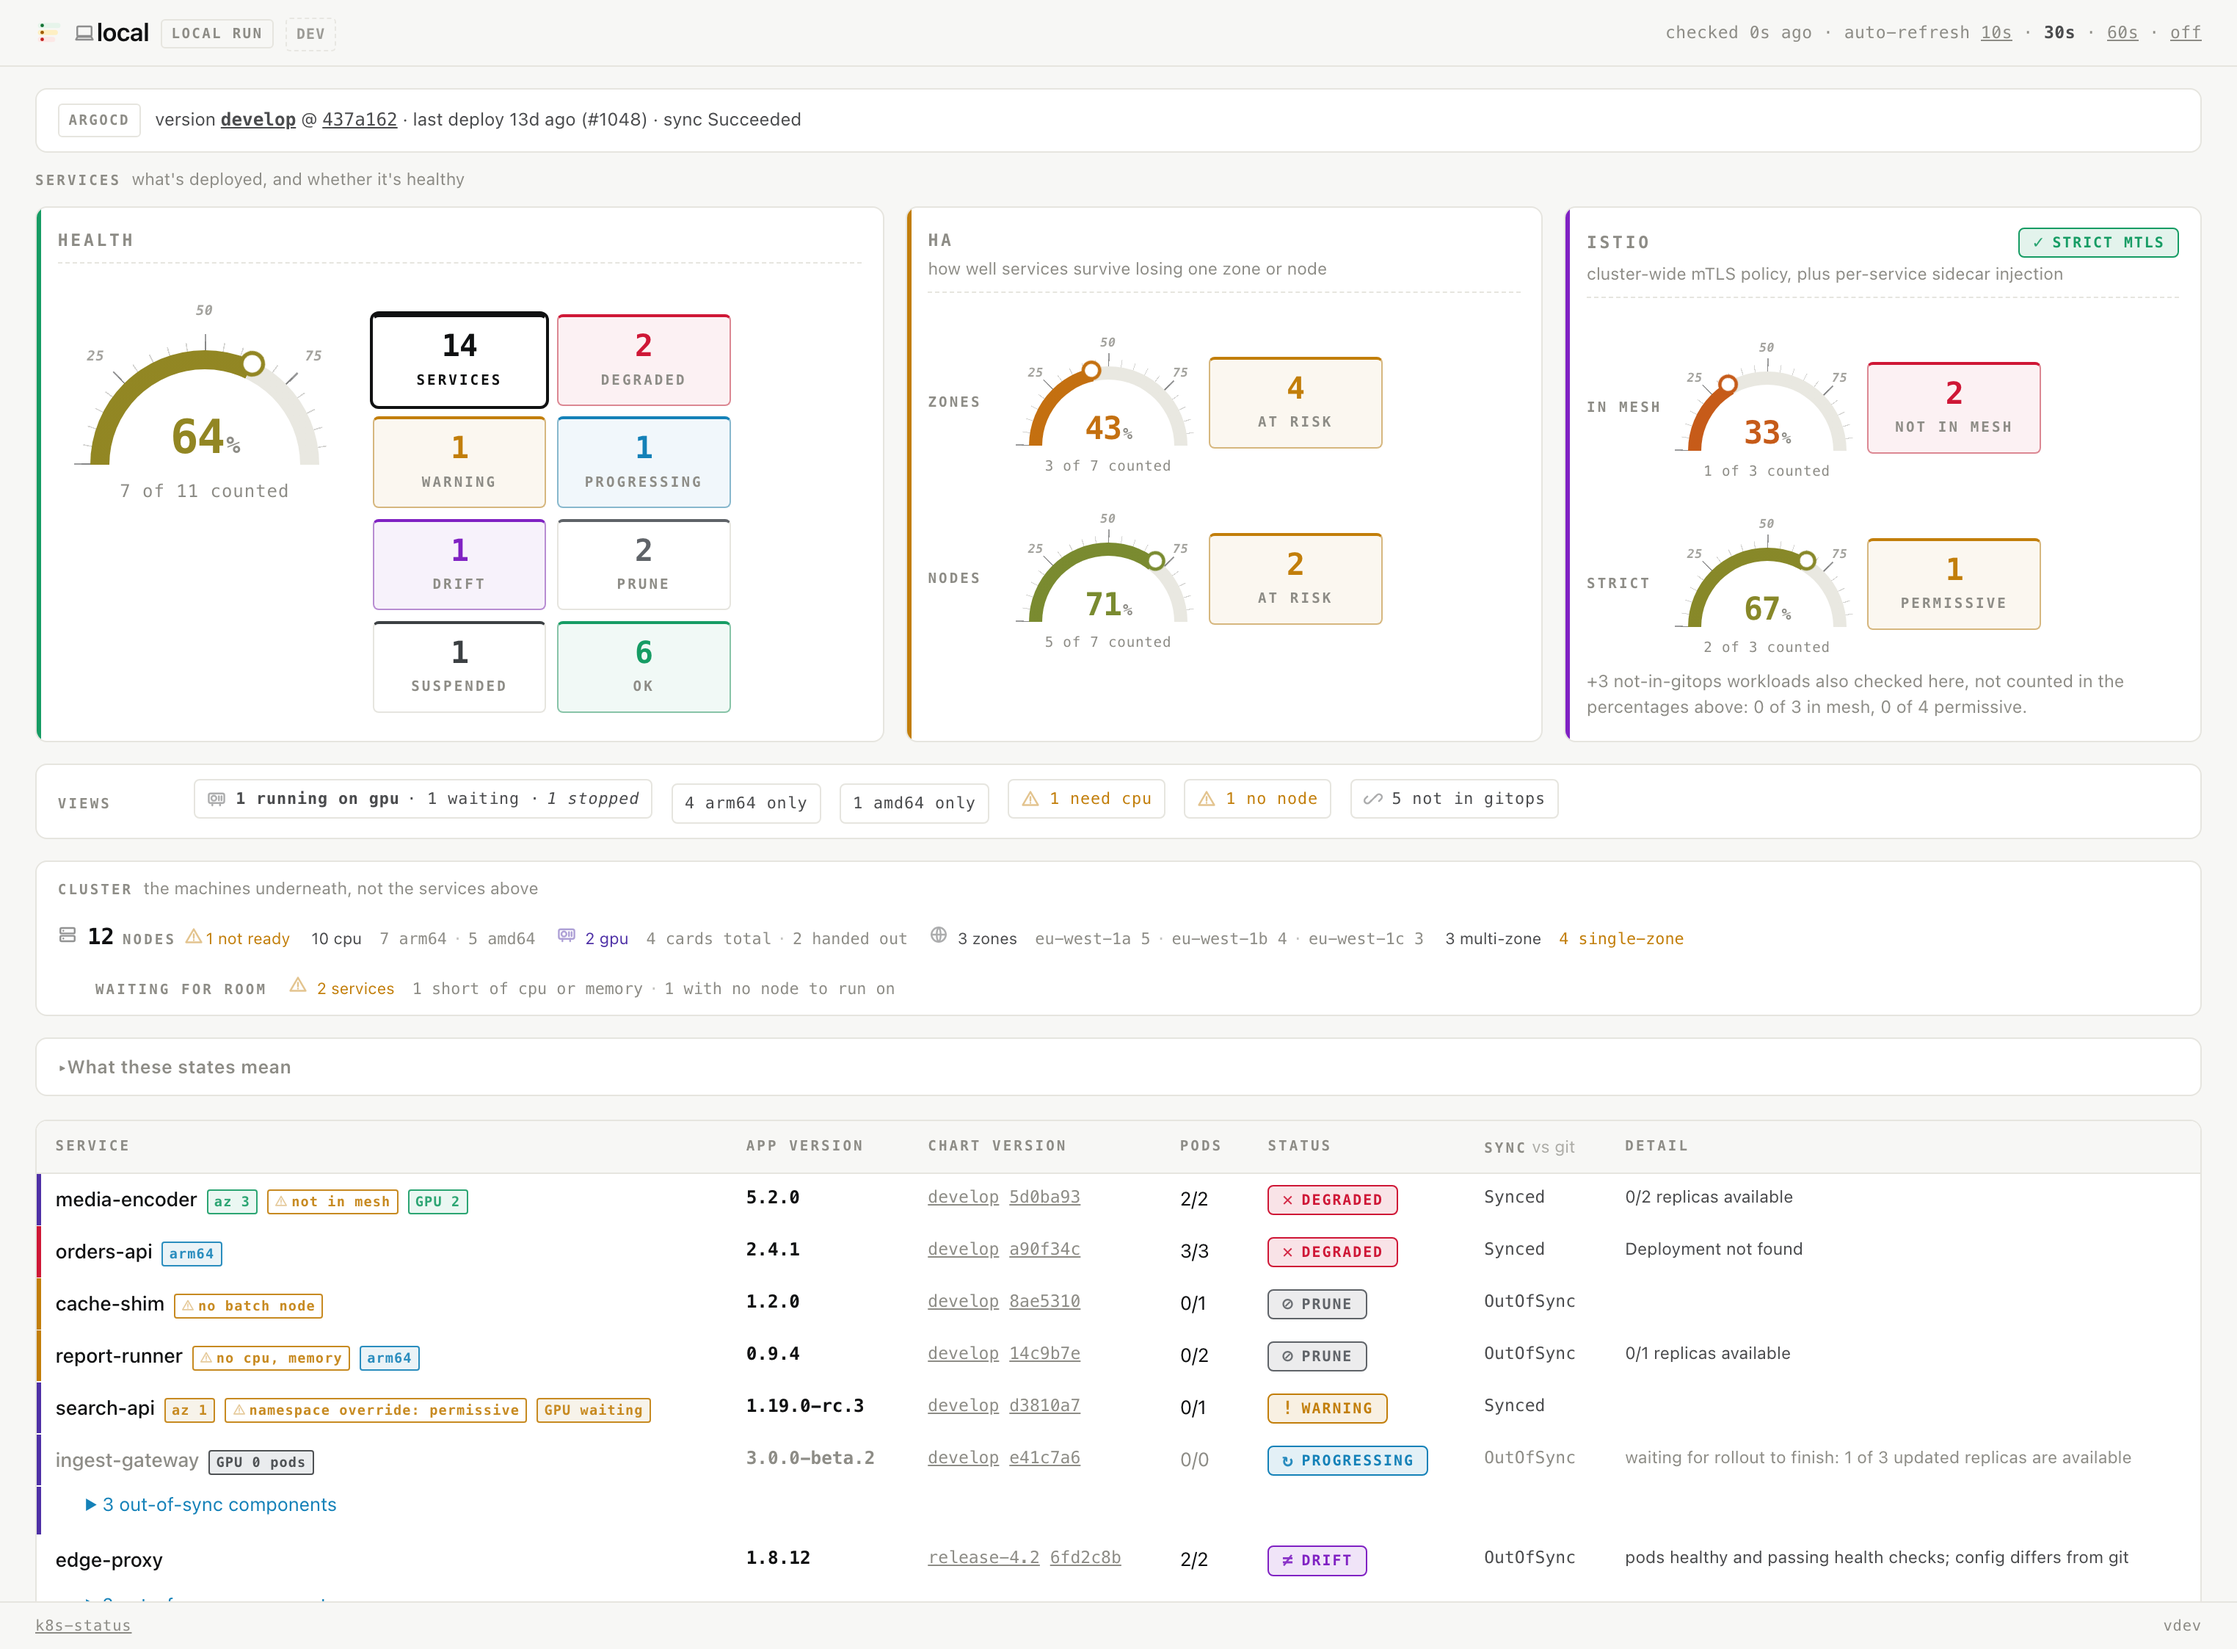
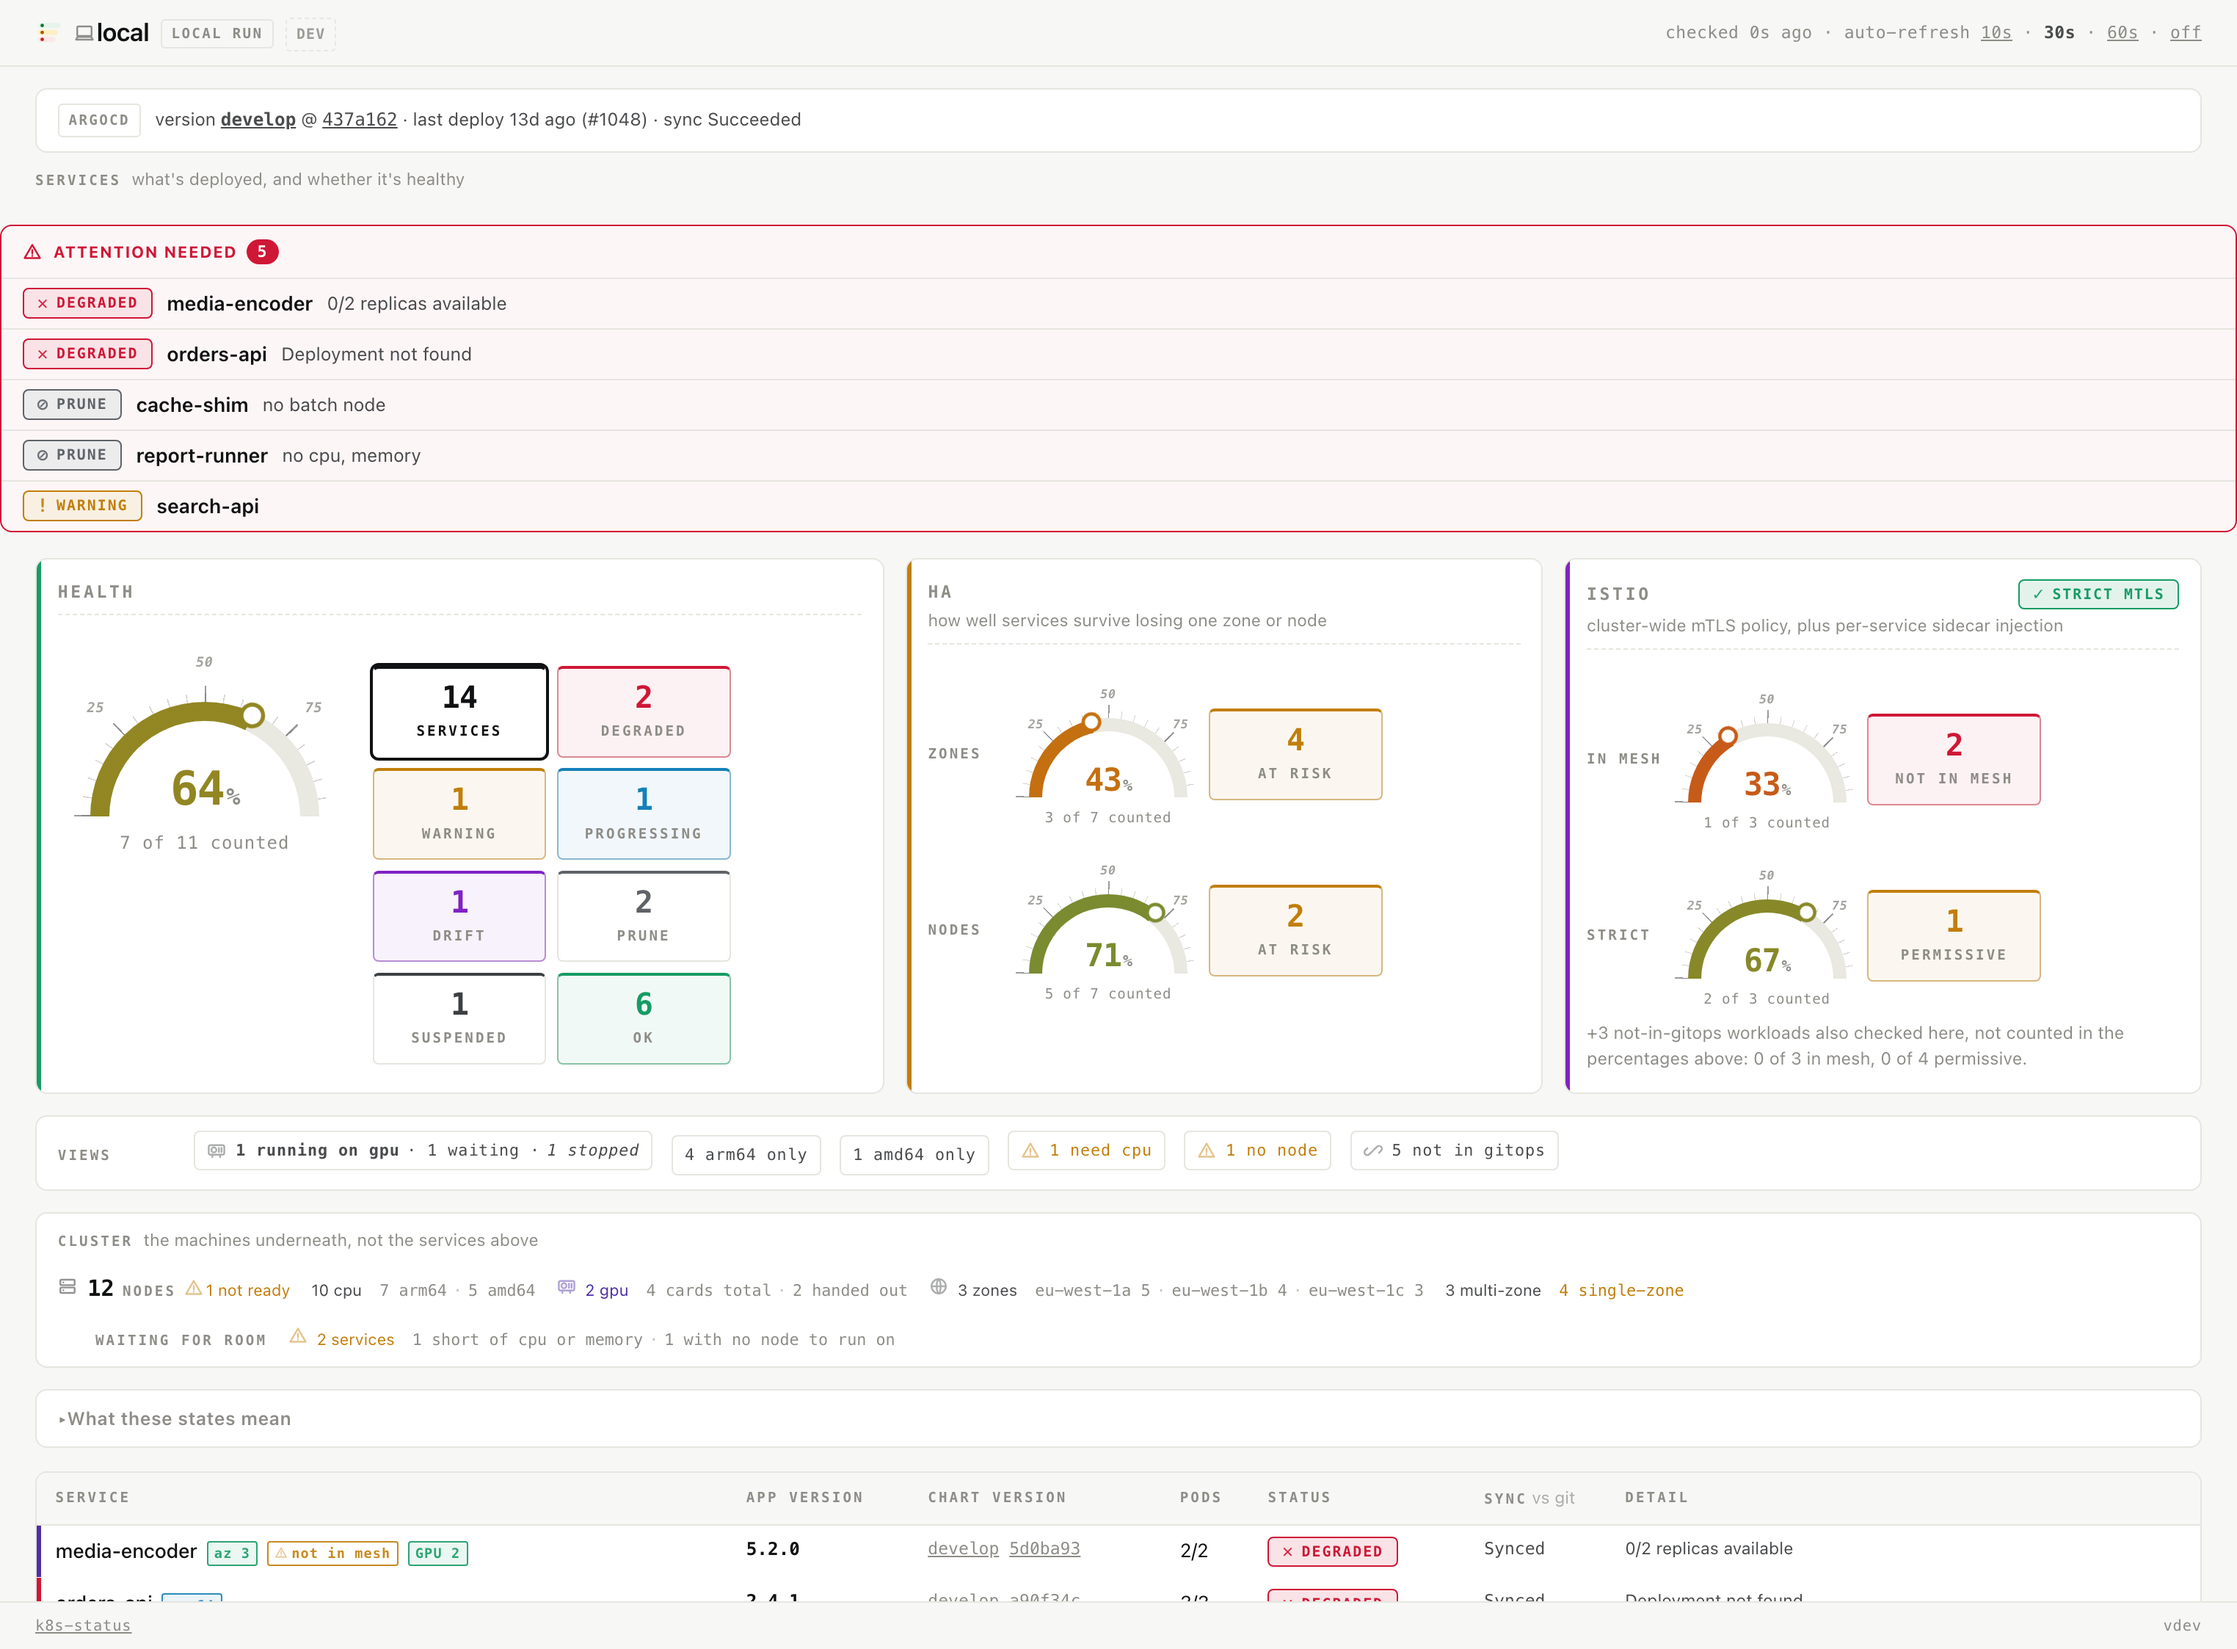
feat: cluster-wide attention-needed digest
Inspired by Radar's Unhealthy Workloads panel, but built entirely from data
this app already fetches every refresh -- no new API calls, no new RBAC.

Service.NeedsAttention() reuses the same worst-first ranking sortServices
already applies (degraded, warning, or blocked from scheduling even when
ArgoCD/Flux itself reported the row healthy). Each digest entry links to its
own row via a shared anchor id, so clicking it jumps straight there.

diff --git a/internal/web/templates/index.html b/internal/web/templates/index.html
@@ -216,6 +216,28 @@ h1 { font-size: 1.25rem; font-weight: 600; margin: 0; letter-spacing: -.01em;
 .cap-item.is-gpu .cv { color: var(--gpu-fg); }
 .cap-note { margin-top: .4rem; font-size: .74rem; color: var(--muted); }
 
+/* Attention digest: everything NeedsAttention() across the whole cluster, in one
+   scannable list, so a reader does not have to scan the full table below to find
+   the handful of rows that actually need a look. Pure re-presentation of data the
+   table already has -- no new fetch, no new permission. */
+.attn { border: 1px solid var(--deg-fg); border-radius: 8px; margin: .8rem 0 1.1rem;
+        background: color-mix(in srgb, var(--deg-fg) 4%, var(--surface)); overflow: hidden; }
+.attn-head { display: flex; align-items: center; gap: .4rem; padding: .55rem .9rem;
+             font-size: .68rem; letter-spacing: .07em; text-transform: uppercase;
+             font-weight: 700; color: var(--deg-fg); }
+.attn-head .ic { opacity: 1; }
+.attn-count { font-family: var(--mono); font-size: .68rem; font-weight: 700;
+              background: var(--deg-fg); color: var(--surface); border-radius: 999px;
+              padding: .02rem .45rem; }
+.attn-list { list-style: none; margin: 0; padding: 0; }
+.attn-item { display: flex; align-items: center; gap: .6rem; padding: .4rem .9rem;
+             text-decoration: none; color: var(--ink); border-top: 1px solid var(--hair); }
+.attn-list li:first-child .attn-item { border-top: 1px solid var(--hair); }
+.attn-item:hover { background: color-mix(in srgb, var(--ink) 4%, transparent); }
+.attn-name { font-weight: 600; font-size: .84rem; flex: none; }
+.attn-reason { color: var(--ink-2); font-size: .78rem; flex: 1 1 auto; min-width: 0;
+               white-space: nowrap; overflow: hidden; text-overflow: ellipsis; }
+
 .hdr-right { display: flex; align-items: center; gap: .75rem; flex: 0 1 auto; min-width: 0; }
 .gauge {
   /* Flat and bordered like .capacity/.tile, not its own elevated card -- a drop
@@ -972,6 +994,21 @@ footer { font-family: var(--mono); font-size: .64rem; letter-spacing: .04em; }
      to count only the filtered rows: every other tile would read 0 as soon as one filter
      is applied and the reader would lose their bearings. Filtering picks rows, not counts. */}}
 <div class="cap-head">Services<span class="cap-sub">what's deployed, and whether it's healthy</span></div>
+{{$attn := $.AttentionItems}}
+{{if $attn}}
+<div class="attn">
+  <div class="attn-head">{{icon "warn"}}Attention needed<span class="attn-count">{{len $attn}}</span></div>
+  <ul class="attn-list">
+    {{range $attn}}
+    <li><a class="attn-item" href="#{{.Anchor}}">
+      <span class="pill s-{{lower .State}}"><span class="g">{{glyph .State}}</span>{{.State}}</span>
+      <span class="attn-name">{{.Name}}</span>
+      {{- if .Reason}}<span class="attn-reason">{{.Reason}}</span>{{end}}
+    </a></li>
+    {{end}}
+  </ul>
+</div>
+{{end}}
 <div class="areas">
 <div class="area">
 <div class="cap-head">Health</div>
@@ -1287,7 +1324,7 @@ footer { font-family: var(--mono); font-size: .64rem; letter-spacing: .04em; }
 {{$ui := .ArgoCDUIBase}}
 {{$multi := .MultiSource}}
 {{range .Services}}
-<tbody class="svc{{if .GPU}} is-gpu{{end}}{{if .Blocked}} is-blocked{{end}}{{if and .GPU .GPUAlloc.ScaledToZero}} is-dim{{end}} is-{{lower (printf "%s" .State)}}">
+<tbody class="svc{{if .GPU}} is-gpu{{end}}{{if .Blocked}} is-blocked{{end}}{{if and .GPU .GPUAlloc.ScaledToZero}} is-dim{{end}} is-{{lower (printf "%s" .State)}}" id="{{anchor (printf "%s" .Source) .Namespace .Name}}">
 <tr>
   <td class="name"{{if .Namespace}} title="{{.Kind}} {{.Namespace}}/{{.Name}}"{{end}}>
     {{- if and $ui (eq (printf "%s" .Source) "argocd")}}<a href="{{appURL $ui .Name}}">{{.Name}}</a>{{else}}{{.Name}}{{end}}

diff --git a/internal/web/render.go b/internal/web/render.go
@@ -38,7 +38,20 @@ func templateFuncs() template.FuncMap {
 		"clip":       clip,
 		"icon":       icon,
 		"brand":      brand,
+		"anchor":     svcAnchor,
 	}
+}
+
+// svcAnchor is the one place a service row's HTML id is built, shared by the services
+// table (so each row is a jump target) and the attention digest (so it can link
+// straight to the row it's summarizing). Source and namespace disambiguate two
+// sources owning a row of the same name; namespace is empty for most ArgoCD rows.
+func svcAnchor(source, namespace, name string) string {
+	id := "svc-" + source
+	if namespace != "" {
+		id += "-" + namespace
+	}
+	return id + "-" + name
 }
 
 func shortSHA(s string) string {
@@ -277,6 +290,45 @@ func (d pageData) Tiles() []Tile {
 	out = append(out, Tile{Class: "t-ok", Count: s.OK, Label: "ok", Href: d.FilterHref("status", "OK"), IsOn: d.FilterActive("status", "OK")})
 	if s.Hidden > 0 {
 		out = append(out, Tile{Count: s.Hidden, Label: "hidden"})
+	}
+	return out
+}
+
+// AttentionItem is one row of the cluster-wide digest: worth a look before scanning
+// the full table.
+type AttentionItem struct {
+	Name   string
+	State  string
+	Reason string
+	// Anchor points at the same row in the services table below, built by the exact
+	// same svcAnchor call the table's own row id uses.
+	Anchor string
+}
+
+// AttentionItems lists every service.NeedsAttention() row, worst-first (the
+// services table is already sorted that way), each with the same one-line reason
+// the table's own Detail column shows -- or the scheduling reason when that is why
+// it needs attention, since Detail alone can otherwise leave a Healthy-looking row
+// with no explanation for why it is here.
+func (d pageData) AttentionItems() []AttentionItem {
+	if d.Snapshot == nil {
+		return nil
+	}
+	var out []AttentionItem
+	for _, svc := range d.Snapshot.Services {
+		if !svc.NeedsAttention() {
+			continue
+		}
+		reason := svc.Detail
+		if svc.Blocked != nil {
+			reason = svc.Blocked.Reason()
+		}
+		out = append(out, AttentionItem{
+			Name:   svc.Name,
+			State:  string(svc.State),
+			Reason: reason,
+			Anchor: svcAnchor(string(svc.Source), svc.Namespace, svc.Name),
+		})
 	}
 	return out
 }

diff --git a/internal/web/render_test.go b/internal/web/render_test.go
@@ -50,3 +50,43 @@ func equalStrings(a, b []string) bool {
 	}
 	return true
 }
+
+func TestAttentionItemsFiltersAndOrders(t *testing.T) {
+	d := pageData{Snapshot: &status.Snapshot{Services: []status.Service{
+		{Name: "accounts-api", Source: status.SourceArgoCD, State: status.StateOK, Detail: "all good"},
+		{Name: "orders-api", Source: status.SourceArgoCD, State: status.StateDegraded, Detail: "0/2 replicas available"},
+		{Name: "search-api", Source: status.SourceArgoCD, State: status.StateWarning, Detail: "health unknown"},
+		{Name: "cache-shim", Namespace: "cache", Source: status.SourceFlux, State: status.StateOK,
+			Blocked: &status.Blocked{Resources: []string{"cpu"}, Pods: 1}},
+		{Name: "edge-proxy", Source: status.SourceArgoCD, State: status.StateProgressing, Detail: "rolling out"},
+	}}}
+
+	items := d.AttentionItems()
+	if len(items) != 3 {
+		t.Fatalf("len(items) = %d, want 3 (OK and PROGRESSING excluded)", len(items))
+	}
+
+	got := map[string]AttentionItem{}
+	for _, it := range items {
+		got[it.Name] = it
+	}
+	if _, ok := got["accounts-api"]; ok {
+		t.Error("OK service must not appear in the digest")
+	}
+	if _, ok := got["edge-proxy"]; ok {
+		t.Error("PROGRESSING service must not appear in the digest")
+	}
+	if it := got["orders-api"]; it.Reason != "0/2 replicas available" {
+		t.Errorf("orders-api reason = %q, want the Detail text", it.Reason)
+	}
+	if it := got["cache-shim"]; it.Reason == "" || it.Anchor != "svc-flux-cache-cache-shim" {
+		t.Errorf("cache-shim = %+v, want a Blocked.Reason() and a namespaced anchor", it)
+	}
+}
+
+func TestAttentionItemsNilSnapshotIsNoop(t *testing.T) {
+	d := pageData{}
+	if got := d.AttentionItems(); got != nil {
+		t.Errorf("AttentionItems() = %v, want nil", got)
+	}
+}

diff --git a/internal/status/state_test.go b/internal/status/state_test.go
@@ -219,3 +219,28 @@ func TestDetectRootAppByShape(t *testing.T) {
 		t.Errorf("detectRootApp = %q, want empty when nothing owns Applications", got)
 	}
 }
+
+func TestNeedsAttention(t *testing.T) {
+	cases := []struct {
+		name string
+		svc  Service
+		want bool
+	}{
+		{"ok", Service{State: StateOK}, false},
+		{"degraded", Service{State: StateDegraded}, true},
+		{"warning", Service{State: StateWarning}, true},
+		{"progressing", Service{State: StateProgressing}, false},
+		{"drift", Service{State: StateDrift}, false},
+		{"prune", Service{State: StatePrune}, false},
+		{"suspended", Service{State: StateSuspended}, false},
+		{"ok but blocked from scheduling", Service{State: StateOK, Blocked: &Blocked{Pods: 2}}, true},
+		{"degraded and blocked stays degraded-ranked", Service{State: StateDegraded, Blocked: &Blocked{Pods: 1}}, true},
+	}
+	for _, tc := range cases {
+		t.Run(tc.name, func(t *testing.T) {
+			if got := tc.svc.NeedsAttention(); got != tc.want {
+				t.Errorf("NeedsAttention() = %v, want %v", got, tc.want)
+			}
+		})
+	}
+}

diff --git a/internal/status/state.go b/internal/status/state.go
@@ -390,6 +390,14 @@ func rank(s Service) int {
 	return r
 }
 
+// NeedsAttention reports whether this service belongs in a cluster-wide digest of
+// what to look at first, using the same worst-first ranking sortServices already
+// applies -- degraded, warning, or blocked from scheduling regardless of what
+// ArgoCD/Flux itself reported as this row's health.
+func (s Service) NeedsAttention() bool {
+	return rank(s) <= severity[StateWarning]
+}
+
 // sortServices orders rows worst-first, then alphabetically. Source and namespace are
 // the last tiebreakers: two sources can each own a row of the same name, and the order
 // has to stay stable between refreshes.

diff --git a/README.md b/README.md
@@ -21,6 +21,8 @@
 - Are your services fully HA? One glance.
 - Do you have strict mTLS enforced, cluster-wide? Same glance.
 - Are your services actually healthy? Done.
+- Something degraded, warning, or stuck unable to schedule? It's called out at the
+  top, before you have to scan the table for it.
 
 ## What is this?
 
